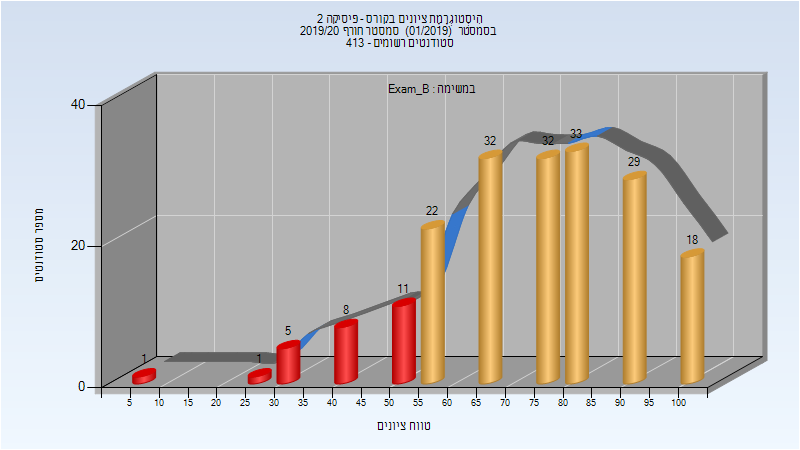
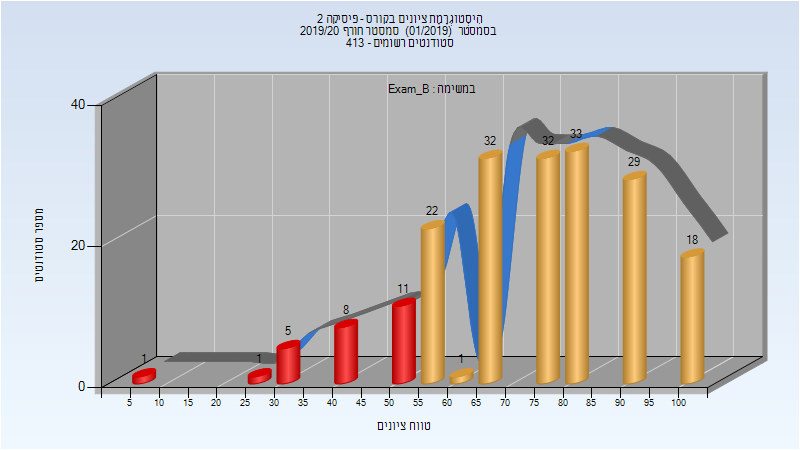
Deploy michael-maltsev/technion-histograms to github.com/michael-maltsev/technion-histograms.git:gh-pages

Changed region(s): [[0.5312, 0.2489, 0.6875, 0.7778], [0.5625, 0.8089, 0.5938, 0.8711]]

diff --git a/114052/index.html b/114052/index.html
@@ -1547,12 +1547,12 @@
 </thead>
 <tbody>
 <tr>
-<td>192</td>
-<td>166/26</td>
-<td>86</td>
+<td>193</td>
+<td>167/26</td>
+<td>87</td>
 <td>8.333</td>
 <td>100</td>
-<td>73.481</td>
+<td>73.411</td>
 <td>75</td>
 </tr>
 </tbody>
@@ -1573,13 +1573,13 @@
 </thead>
 <tbody>
 <tr>
-<td>192</td>
-<td>175/17</td>
+<td>193</td>
+<td>176/17</td>
 <td>91</td>
 <td>8</td>
 <td>100</td>
-<td>75.651</td>
-<td>77.5</td>
+<td>75.591</td>
+<td>77</td>
 </tr>
 </tbody>
 </table>

diff --git a/114052/README.md b/114052/README.md
@@ -494,7 +494,7 @@
 
 | סטודנטים | עברו/נכשלו | אחוז עוברים | ציון מינימלי | ציון מקסימלי | ממוצע | חציון |
 | ---- | ---- | ---- | ---- | ---- | ---- | ---- |
-| 192 | 166/26 | 86 | 8.333 | 100 | 73.481 | 75 |
+| 193 | 167/26 | 87 | 8.333 | 100 | 73.411 | 75 |
 
 ### סופי מועד ב'
 
@@ -502,7 +502,7 @@
 
 | סטודנטים | עברו/נכשלו | אחוז עוברים | ציון מינימלי | ציון מקסימלי | ממוצע | חציון |
 | ---- | ---- | ---- | ---- | ---- | ---- | ---- |
-| 192 | 175/17 | 91 | 8 | 100 | 75.651 | 77.5 |
+| 193 | 176/17 | 91 | 8 | 100 | 75.591 | 77 |
 
 ### סופי
 
